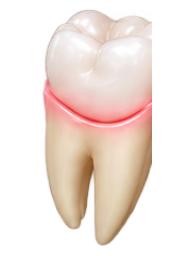
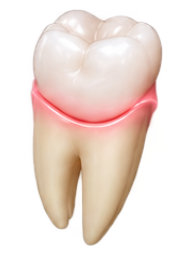
fix: simplifica odontograma e corrige recorte do dente 48

Changed region(s): [[0.1562, 0.0312, 0.875, 0.9688], [0.4375, 0.2812, 0.4688, 0.3125], [0.375, 0.2812, 0.4062, 0.3125]]

diff --git a/frontend/src/components/dentistry/HybridOdontogram.tsx b/frontend/src/components/dentistry/HybridOdontogram.tsx
@@ -6,7 +6,7 @@ const HybridDentalArch = lazy(() => import('./HybridDentalArch'));
 export class AnatomicalViewBoundary extends React.Component<{onShowFaces:()=>void;children:React.ReactNode},{failed:boolean}> {
   state={failed:false};
   static getDerivedStateFromError(){return {failed:true};}
-  render(){return this.state.failed ? <div role="alert" className="p-6 space-y-3"><p>Não foi possível carregar a visualização anatômica.</p><button type="button" className={button} onClick={this.props.onShowFaces}>Abrir Mapa de Faces 2D</button></div> : this.props.children;}
+  render(){return this.state.failed ? <div role="alert" className="p-6 space-y-3"><p>Não foi possível carregar a visualização anatômica.</p><button type="button" className={button} onClick={this.props.onShowFaces}>Continuar no odontograma</button></div> : this.props.children;}
 }
 
 interface Props {
@@ -58,7 +58,7 @@ export function HybridOdontogram({ currentData, activeCondition, onChange, onToo
     const result = updateToothCondition(currentData, tooth, face, activeCondition);
     if (result.changes.length) onChange(result.data, result.changes);
   };
-  return <section aria-label="Odontograma híbrido interativo" className="min-w-0 max-w-full bg-white border border-slate-200 rounded-2xl p-3 sm:p-4 space-y-3">
+  return <section aria-label="Odontograma" className="min-w-0 max-w-full bg-white border border-slate-200 rounded-2xl p-3 sm:p-4 space-y-3">
     <div className="flex flex-wrap justify-between items-center gap-2">
       <p className="text-xs text-slate-500">Anatomia e faces do mesmo dente · Clique nas faces para registrar a condição.</p>
       <div className="flex gap-1 items-center">
@@ -86,7 +86,7 @@ export function HybridOdontogram({ currentData, activeCondition, onChange, onToo
       {selected && <dl className="grid grid-cols-2 sm:grid-cols-3 gap-2 text-xs">
         {([...toothFaces(selected), 'whole'] as ToothFace[]).map(face => <div key={face}><dt className="text-slate-500">{faceLabel(face, selected)}</dt><dd className="font-semibold text-slate-700">{conditionLabel(currentData[selected]?.[face])}</dd></div>)}
       </dl>}
-      {!readOnly && targets.length > 0 && <div className="space-y-2">
+      {!readOnly && multiSelectMode && targets.length > 0 && <div className="space-y-2">
         <p className="text-xs font-semibold text-slate-600">{condition?.affectsWholeTooth ? condition.label : `${conditionLabel(activeCondition)} — selecione a face${multiSelectMode ? ' para os dentes selecionados' : ''}:`}</p>
         <div className="flex flex-wrap gap-2">
           {condition?.affectsWholeTooth ? <button type="button" className={button} onClick={() => apply('whole')}>Aplicar condição</button> : <>
@@ -96,7 +96,7 @@ export function HybridOdontogram({ currentData, activeCondition, onChange, onToo
         </div>
       </div>}
       <div className="flex flex-wrap gap-2">
-        <button type="button" className={button} onClick={onShowFaces}>Ampliar somente faces</button>
+        {!readOnly && !multiSelectMode && selected && activeCondition === 'healthy' && <button type="button" className={button} onClick={() => apply('whole')}>Limpar condição do dente inteiro</button>}
         {selected && onOpenToothDossier && <><button type="button" className={button} onClick={() => onOpenToothDossier(selected)}>Abrir dossiê</button><button type="button" className={button} onClick={() => onOpenToothDossier(selected)}>Histórico</button></>}
       </div>
     </div>}

diff --git a/frontend/src/components/dentistry/OdontogramCanvas.tsx b/frontend/src/components/dentistry/OdontogramCanvas.tsx
@@ -48,7 +48,7 @@ export const OdontogramCanvas: React.FC<OdontogramCanvasProps> = ({
   onOpenToothDossier,
   readOnly = false
 }) => {
-  const [presentation, setPresentation] = useState<'3d' | '2d'>('3d');
+  const [anatomyUnavailable, setAnatomyUnavailable] = useState(false);
   const [data, setData] = useState<OdontogramData>(currentData);
   const [dentitionType, setDentitionType] = useState<'permanent' | 'deciduous' | 'mixed'>('permanent');
   const [activeCondition, setActiveCondition] = useState<string>('decay');
@@ -57,7 +57,7 @@ export const OdontogramCanvas: React.FC<OdontogramCanvasProps> = ({
   const [multiSelectMode, setMultiSelectMode] = useState<boolean>(false);
   const [selectedToothHistory, setSelectedToothHistory] = useState<number | null>(null);
 
-  const show3D = presentation === '3d' && dentitionType === 'permanent' && viewMode !== 'compare';
+  const show3D = !anatomyUnavailable && dentitionType === 'permanent' && viewMode !== 'compare';
 
   // Sincronizar estado interno com currentData sempre que atualizado externamente ou via API
   useEffect(() => {
@@ -320,16 +320,6 @@ export const OdontogramCanvas: React.FC<OdontogramCanvasProps> = ({
 
   return (
     <div className="space-y-4">
-      <div className="flex flex-wrap items-center gap-2" aria-label="Visualização do odontograma">
-        {(['3d', '2d'] as const).map(mode => <button type="button" key={mode}
-          disabled={mode === '3d' && dentitionType !== 'permanent'}
-          aria-pressed={mode === '3d' ? show3D : !show3D}
-          onClick={() => { setPresentation(mode); if (viewMode === 'compare') setViewMode('current'); }}
-          className={'px-4 py-2 rounded-xl text-xs font-bold border disabled:opacity-40 ' + ((mode === '3d' ? show3D : !show3D) ? 'bg-cyan-600 text-white border-cyan-600' : 'bg-white text-slate-600 border-slate-200')}>
-          {mode === '3d' ? 'Odontograma Híbrido' : 'Faces 2D'}
-        </button>)}
-        {dentitionType !== 'permanent' && <p className="text-xs text-slate-500">Visualização híbrida disponível atualmente para dentição permanente.</p>}
-      </div>
       {/* Barra de Ferramentas do Odontograma */}
       <div className="flex flex-wrap items-center justify-between gap-3 p-4 bg-white border border-slate-200 rounded-2xl shadow-xs">
         {/* Modos de visualização: Atual vs Inicial vs Comparativo */}
@@ -486,9 +476,9 @@ export const OdontogramCanvas: React.FC<OdontogramCanvasProps> = ({
         onToggleTooth={toggleToothSelection}
         onChange={(updated, changes) => { setData(updated); onChange?.(updated, changes); }}
         onToothClick={onToothClick} onOpenToothDossier={onOpenToothDossier}
-        onShowFaces={() => setPresentation('2d')}
+        onShowFaces={() => setAnatomyUnavailable(true)}
       />}
-      <div hidden={show3D}>
+      {!show3D && <div>
       {/* Exibição Odontograma: Arcada Superior e Inferior */}
       <div className="bg-slate-50/70 border border-slate-200 rounded-3xl p-4 sm:p-6 space-y-6 sm:space-y-8 shadow-xs">
         {/* ARCADA SUPERIOR */}
@@ -554,7 +544,7 @@ export const OdontogramCanvas: React.FC<OdontogramCanvasProps> = ({
         </div>
       </div>
 
-      </div>
+      </div>}
 
       {/* MODO COMPARATIVO (Mostra lado a lado com a mesma unificação de arcada) */}
       {viewMode === 'compare' && (
